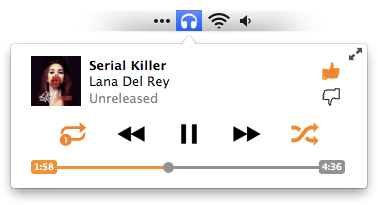
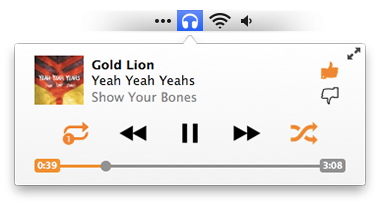
Update for Radiant Player 1.1.2 release

diff --git a/index.html b/index.html
@@ -10,7 +10,7 @@
     <!--[if lt IE 9]>
     <script src="//html5shiv.googlecode.com/svn/trunk/html5.js"></script>
     <![endif]-->
-    <title>Google Music for Mac</title>
+    <title>Radiant Player for Google Play Music - Beautifully integrate Google Play Music with your Mac</title>
   </head>
 
   <body>
@@ -18,17 +18,18 @@
       <div class="inner">
 
         <header>
-          <h1>Google Music for <strong>Mac</strong></h1>
+          <h1><strong>Radiant Player</strong></h1>
+          <h2>for Google Play Music™</h2>
           <a href="images/application.png"><img src="images/application.png"></a>
-          <h2>Turn Google Music into a separate, beautiful application that integrates with your Mac.</h2>
+          <h2>Turn Google Play Music into a separate, beautiful application that integrates with your Mac.</h2>
         </header>
 
         <section id="downloads" class="clearfix">
-          <a href="https://github.com/kbhomes/google-music-mac/releases/download/v1.1.1/Google.Music.zip" id="download-zip" class="button"><span>Download v1.1.1</span></a>
+          <a href="https://github.com/kbhomes/google-music-mac/releases/download/v1.1.2/Radiant.Player.zip" id="download-zip" class="button"><span>Download v1.1.2</span></a>
           <a href="https://github.com/kbhomes/google-music-mac" id="view-on-github" class="button"><span>View on GitHub</span></a>
         </section>
         <span id="requirements">
-          <a href="https://github.com/kbhomes/google-music-mac/releases/tag/v1.1.1">View release notes.</a>
+          <a href="https://github.com/kbhomes/google-music-mac/releases/tag/v1.1.2">View release notes.</a>
           <strong>No affiliation with Google.</strong> Requires Mac OS X 10.8 or above, and Adobe Flash Player.
         </span>
 
@@ -38,7 +39,7 @@
           <section class="feature clearfix">
             <span class="title">Media keys</span>
             <p class="description">
-              Control your music without having to switch applications. <strong>Google Music for Mac</strong>
+              Control your music without having to switch applications. <strong>Radiant Player</strong>
               responds to the media keys built into your Mac, allowing you to easily control the playback
               of your music no matter what you're doing.
             </p>
@@ -57,12 +58,14 @@
 
           <hr>
 
-          <section class="feature clearfix">
+          <section class="feature clearfix" id="mini-player">
             <span class="title">Mini player</span>
             <p class="description">
-              Use the mini player in the system menu bar to control your music without interrupting you.
+              Use the mini player in the system menu bar to control your music without interrupting you.<br>
+              Alternate between mini player sizes by clicking on the album art.
             </p>
-            <img src="images/mini-player.png"></a>
+            <img src="images/mini-player.png">
+            <img src="images/mini-player-alternate.png">
           </section>
 
           <hr>
@@ -80,16 +83,16 @@
           <section class="feature clearfix">
             <span class="title">Adjustable appearance</span>
             <p class="description">
-              Use the custom appearance built into <strong>Google Music for Mac</strong> to make it look 
+              Use the custom appearance built into <strong>Radiant Player</strong> to make it look 
               beautiful and integrated into your system, or stick with Google's original theme.
             </p>
-            <img src="images/appearance.png">
+            <a href="images/appearance.png"><img src="images/appearance.png"></a>
           </section>
         </section>
 
         <footer>
-          Google Music for Mac is developed by <a href="https://github.com/kbhomes">Sajid Anwar</a>. Originally created by <a href="http://jamesfator.com">James Fator</a> at <a href="https://github.com/JamesFator/GoogleMusicMac">JamesFator/GoogleMusicMac</a>.<br>
-          No affiliation with Google.<br>
+          Radiant Player is developed by <a href="https://github.com/kbhomes">Sajid Anwar</a>. Originally created by <a href="http://jamesfator.com">James Fator</a> at <a href="https://github.com/JamesFator/GoogleMusicMac">JamesFator/GoogleMusicMac</a>.<br>
+          No affiliation with Google. Google Play is a trademark of Google Inc.<br>
           Tactile theme by <a href="https://twitter.com/jasonlong">Jason Long</a>.
         </footer>
 

diff --git a/stylesheets/stylesheet.css b/stylesheets/stylesheet.css
@@ -73,13 +73,9 @@ header h1 {
   font-family: 'Helvetica Neue', Helvetica, Arial, serif; 
   font-weight: 200;
   letter-spacing: -1px;
-  font-size: 48px;
+  font-size: 52px;
   color: #303030;
   line-height: 1.2;
-}
-
-header h1 strong {
-  font-weight: 500;
 }
 
 header h2 {
@@ -97,7 +93,7 @@ header h2 {
 }
 
 .inner {
-  width: 860px;
+  width: 960px;
   margin: 0 auto;
 }
 
@@ -277,6 +273,17 @@ ul, ol, dl {
 .feature img {
   display: block;
   margin: auto;
+}
+
+#mini-player {
+  margin-left: -65px;
+  width: 115%;
+  text-align: center;
+}
+
+#mini-player img {
+  display: inline-block;
+  vertical-align: top;
 }
 
 
